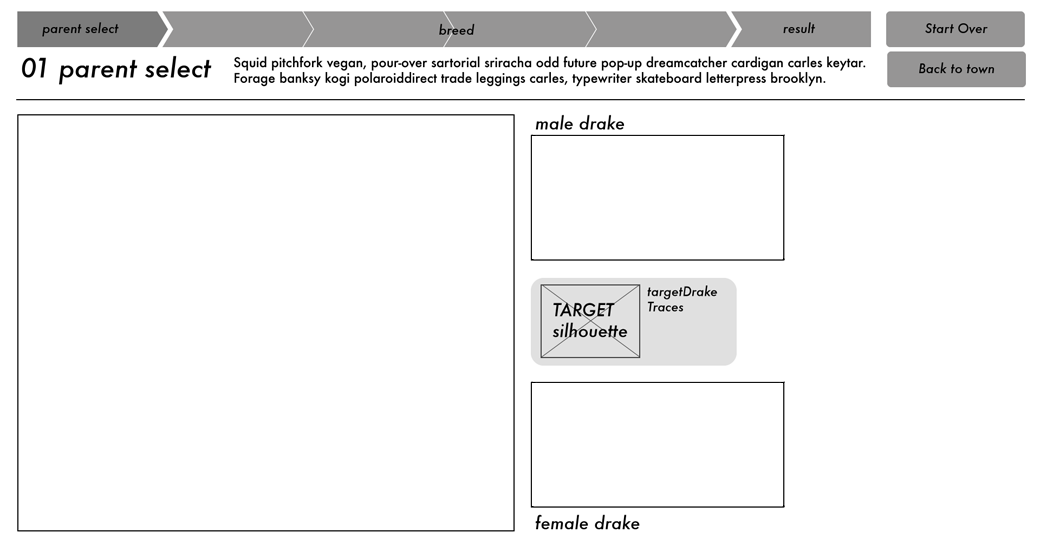
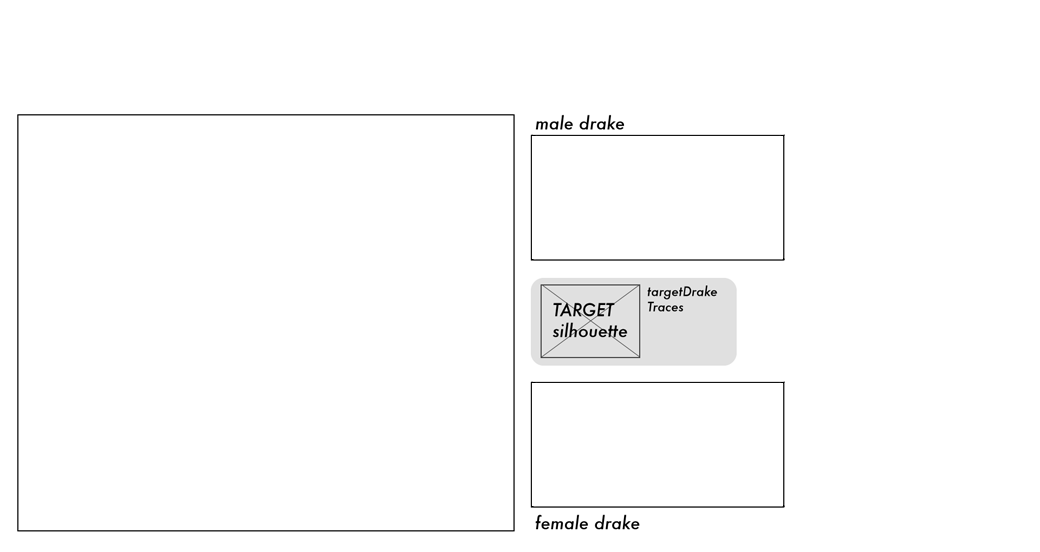
move non-functioning breed top bar out of breed div

Changed region(s): [[0.0, 0.0, 1.0, 0.1848]]

diff --git a/app/static/css/breeder.css b/app/static/css/breeder.css
@@ -8,6 +8,15 @@
   height: 900px;
 }
 
+#breed-top-bar {
+  position: absolute;
+  background: top left no-repeat url('../images/breed-top-bar.png');
+  left: 0px;
+  top: 50px;
+  width: 1040px;
+  height: 152px;
+}
+
 #breeder {
   position: absolute;
   background: top left no-repeat url('../images/mock_02-01.png');
